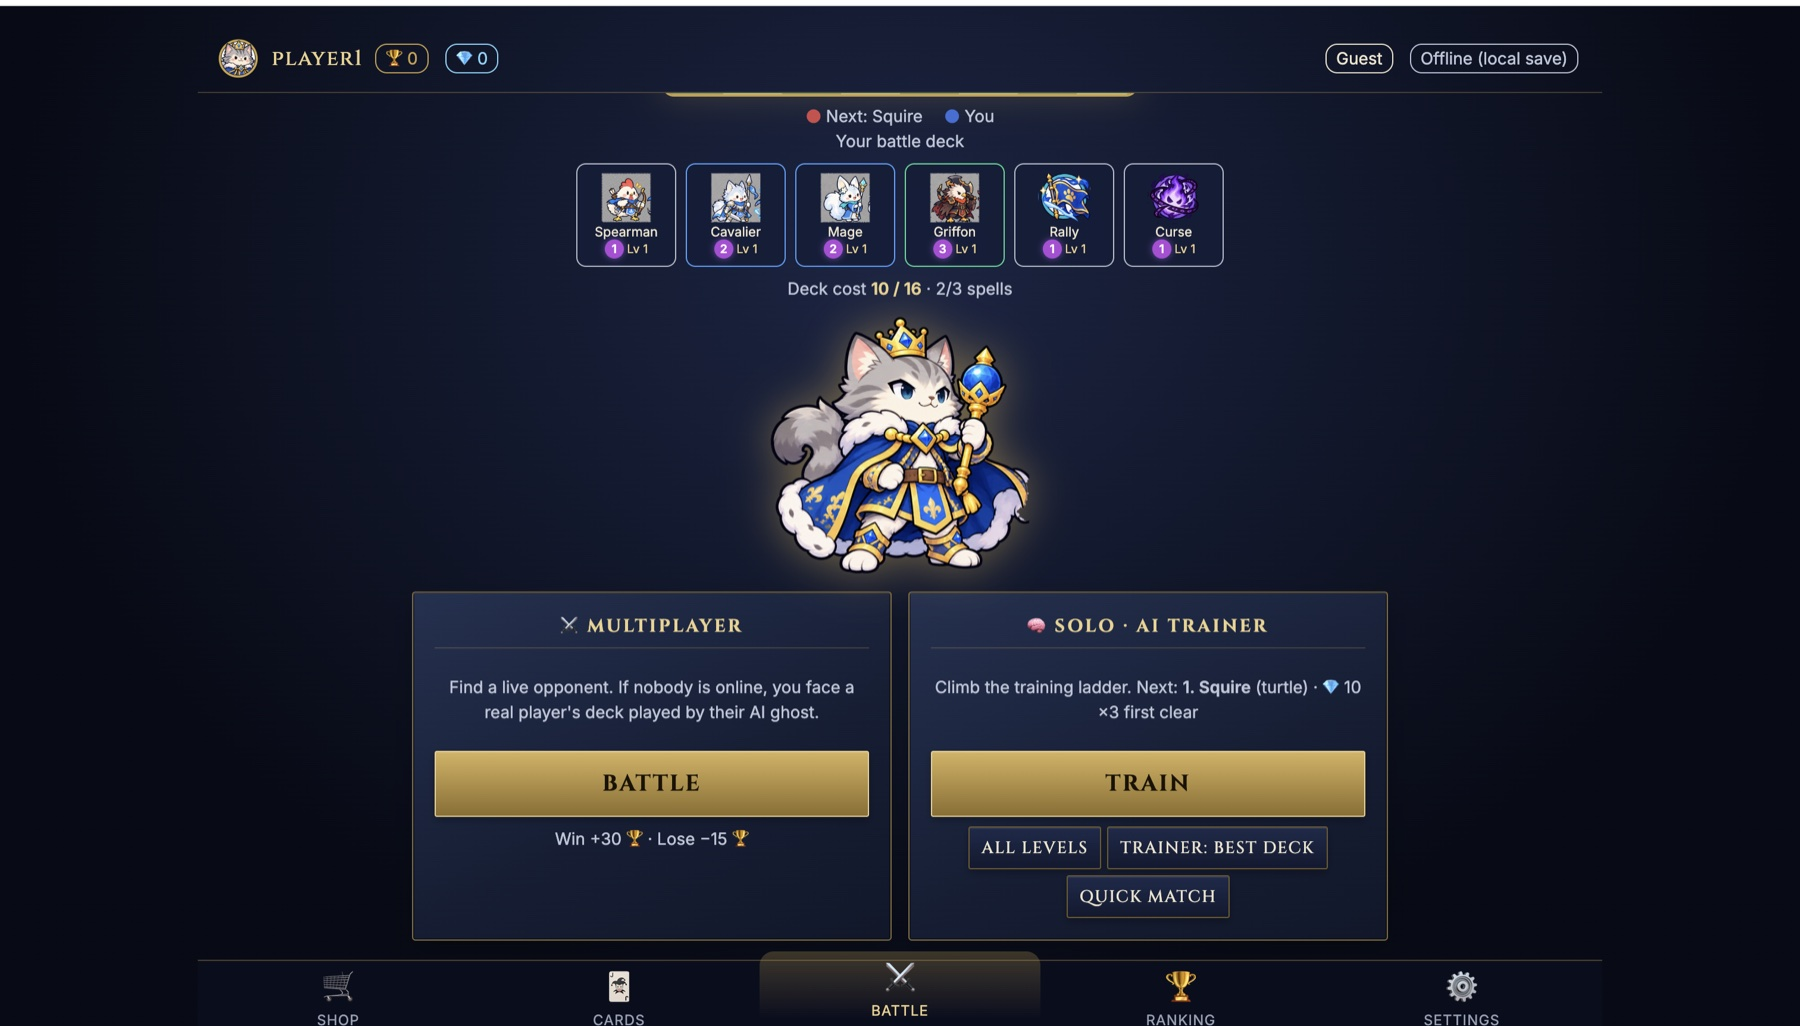
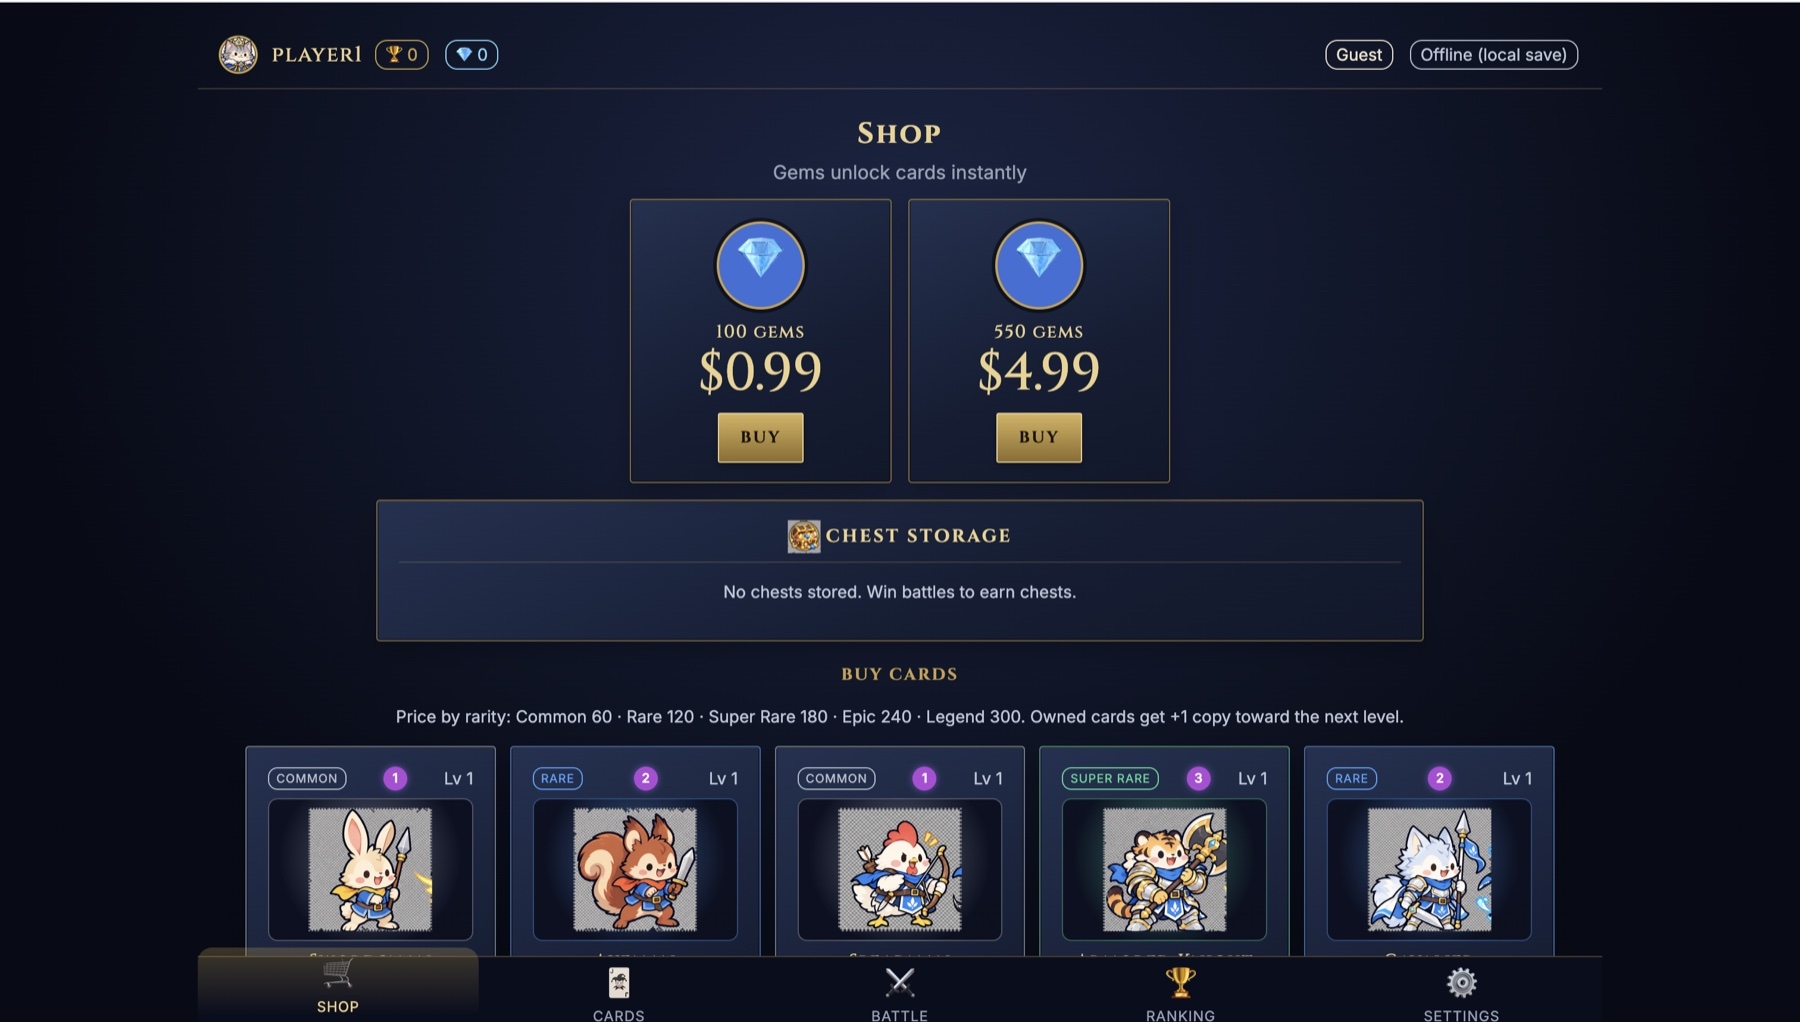
Swap chess-rpg menu screenshots; add Training Grounds agent backend project

Changed region(s): [[0.0933, 0.091, 0.8711, 1.0], [0.0, 0.0, 1.0, 0.091], [0.6222, 0.455, 0.6533, 0.4853]]

diff --git a/src/data/projects.ts b/src/data/projects.ts
@@ -39,12 +39,31 @@ export const projects: Project[] = [
     imageFit: 'contain',
     github: 'https://github.com/yjk82693/chess-rpg',
     status: 'in-progress',
+    evolvedFrom: 'training-grounds',
     screenshots: [
       { image: '/screenshots/chess-rpg/battle-board.jpg', caption: 'Battle board: a chess-style 8x8 grid with RPG heroes, a river crossed at the bridges, the king skills and spells on the left, the rules on the right, and an Ask the Coach button.' },
       { image: '/screenshots/chess-rpg/battle-menu.jpg', caption: 'Battle menu: play a live opponent, with an AI ghost standing in for the real player if nobody is online, or train solo against the AI trainer.' },
       { image: '/screenshots/chess-rpg/cards.jpg', caption: 'Cards: build a battle deck under a cost cap, equip king spells, and have the AI trainer play every deck you own against a chosen opponent and rank them.' },
       { image: '/screenshots/chess-rpg/training-ladder.jpg', caption: 'Training ladder: opponents unlock in order, each with an AI play style (turtle, rusher, or tactician) and a gem reward that triples on the first clear.' },
       { image: '/screenshots/chess-rpg/shop.jpg', caption: 'Shop: gem packs, chest storage for chests won in battle, and cards priced by rarity from common to legend.' },
+    ],
+  },
+  {
+    slug: 'training-grounds',
+    title: 'Training Grounds: Agent Backend',
+    blurb: 'The agent and backend side of Chess RPG: a headless game engine, a MongoDB server, and LLM agents that learn by playing.',
+    description: 'The agent and backend side of the c0mpiled-15 hackathon project, originally called Training Grounds. A Node and TypeScript game engine runs the chess-style battles headlessly, with a batch runner, a results exporter, and an API server backed by MongoDB. On top of it, LLM agents learn to play: a commander picks each turn from the legal moves the engine lists, a quartermaster spends experience on promotions and builds the party under a cost cap, and coaches read the battle logs and rewrite a short strategy playbook. A generation loop repeats this and charts the results, including a frozen-stats comparison meant to separate strategy learning from stat growth. Four persona coaches run in parallel each generation, taking about 28 seconds instead of about 53 one after another, and the best of their four candidates beat their average every generation. The exporter keeps a live viewer updated while a run is in progress. I built the game engine and server, and a teammate built the agent layer.',
+    category: ['backend', 'hackathon'],
+    image: '/screenshots/training-grounds/chart_tg1_full.png',
+    imageFit: 'contain',
+    github: 'https://github.com/yjk82693/chess-rpg',
+    status: 'in-progress',
+    evolvedInto: 'chess-rpg',
+    screenshots: [
+      { image: '/screenshots/training-grounds/chart_tg1_full.png', caption: 'tg1 experiment, full run.' },
+      { image: '/screenshots/training-grounds/chart_tg1_frozen_stats.png', caption: 'tg1 experiment with unit stats frozen.' },
+      { image: '/screenshots/training-grounds/chart_parallelism_best_vs_mean.png', caption: 'Best of the four parallel coach candidates compared with their average, per generation.' },
+      { image: '/screenshots/training-grounds/chart_coach_parallel_timing.png', caption: 'Coach timing: four persona coaches in parallel (about 28 s per generation) versus one after another (about 53 s).' },
     ],
   },
   {

diff --git a/butler_api/main.py b/butler_api/main.py
@@ -103,6 +103,7 @@ EXTRA_KEYS = {
     "portfolio-v2": ["sharvis", "this site", "this portfolio"],
     "portfolio-v1": ["first portfolio"],
     "chess-rpg": ["chess", "training grounds", "c0mpiled", "wargame"],
+    "training-grounds": ["agent backend", "mongodb", "agent team", "coach", "coaches"],
 }
 FACT_ALIAS = {"basic-game-platform": "gamebase"}
 STOP = {"about", "the", "what", "any", "how", "a", "an", "his", "him", "he", "more", "anything"}
